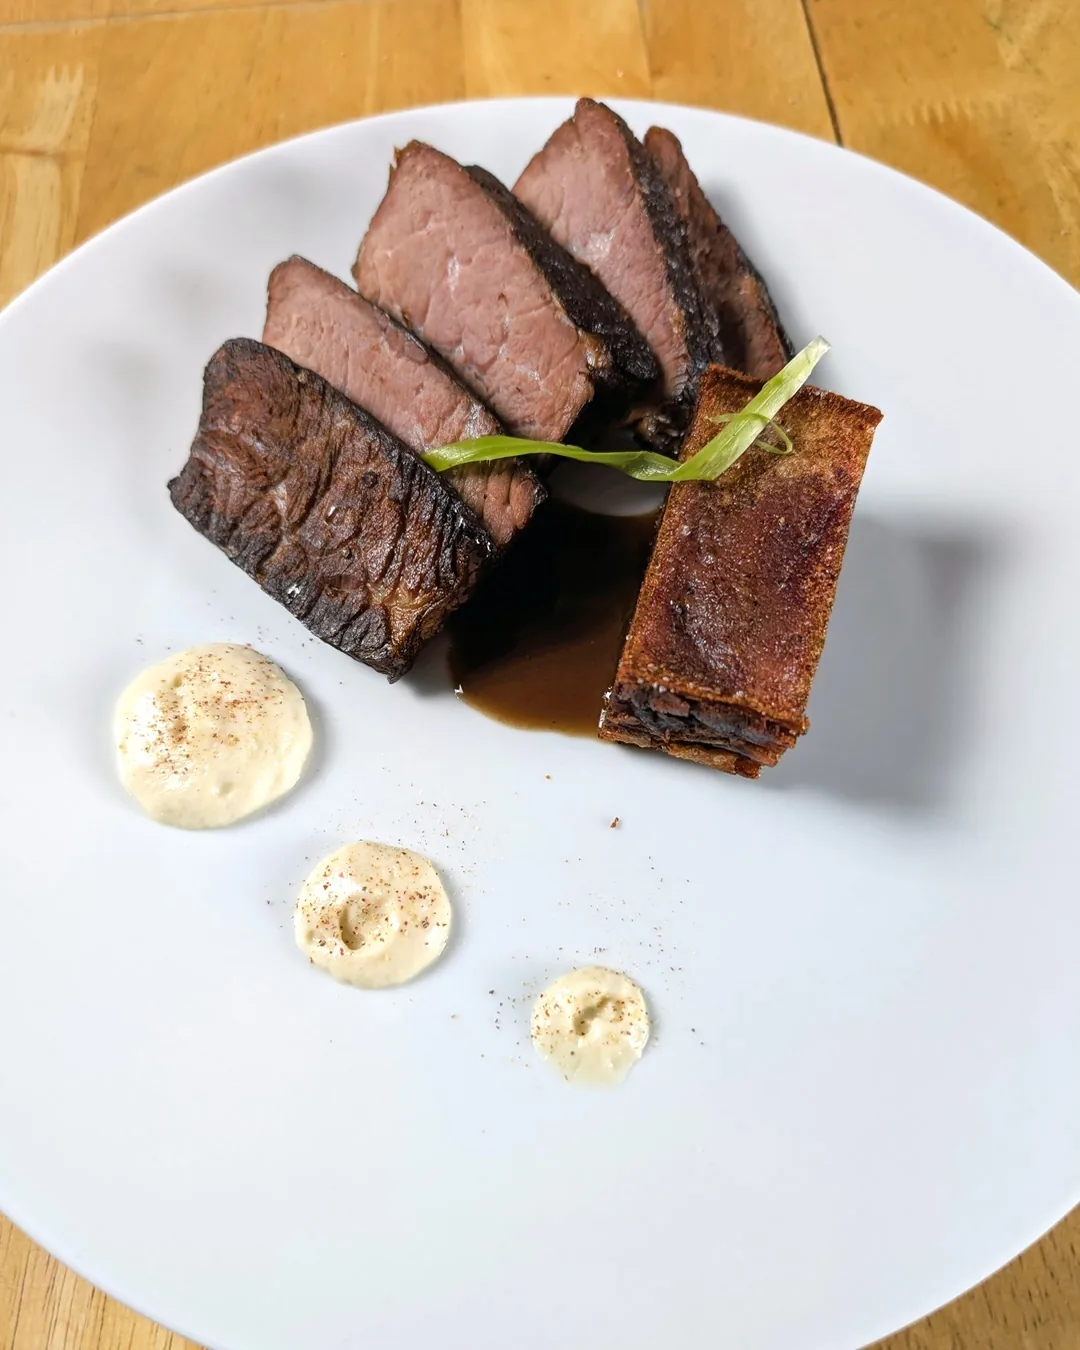
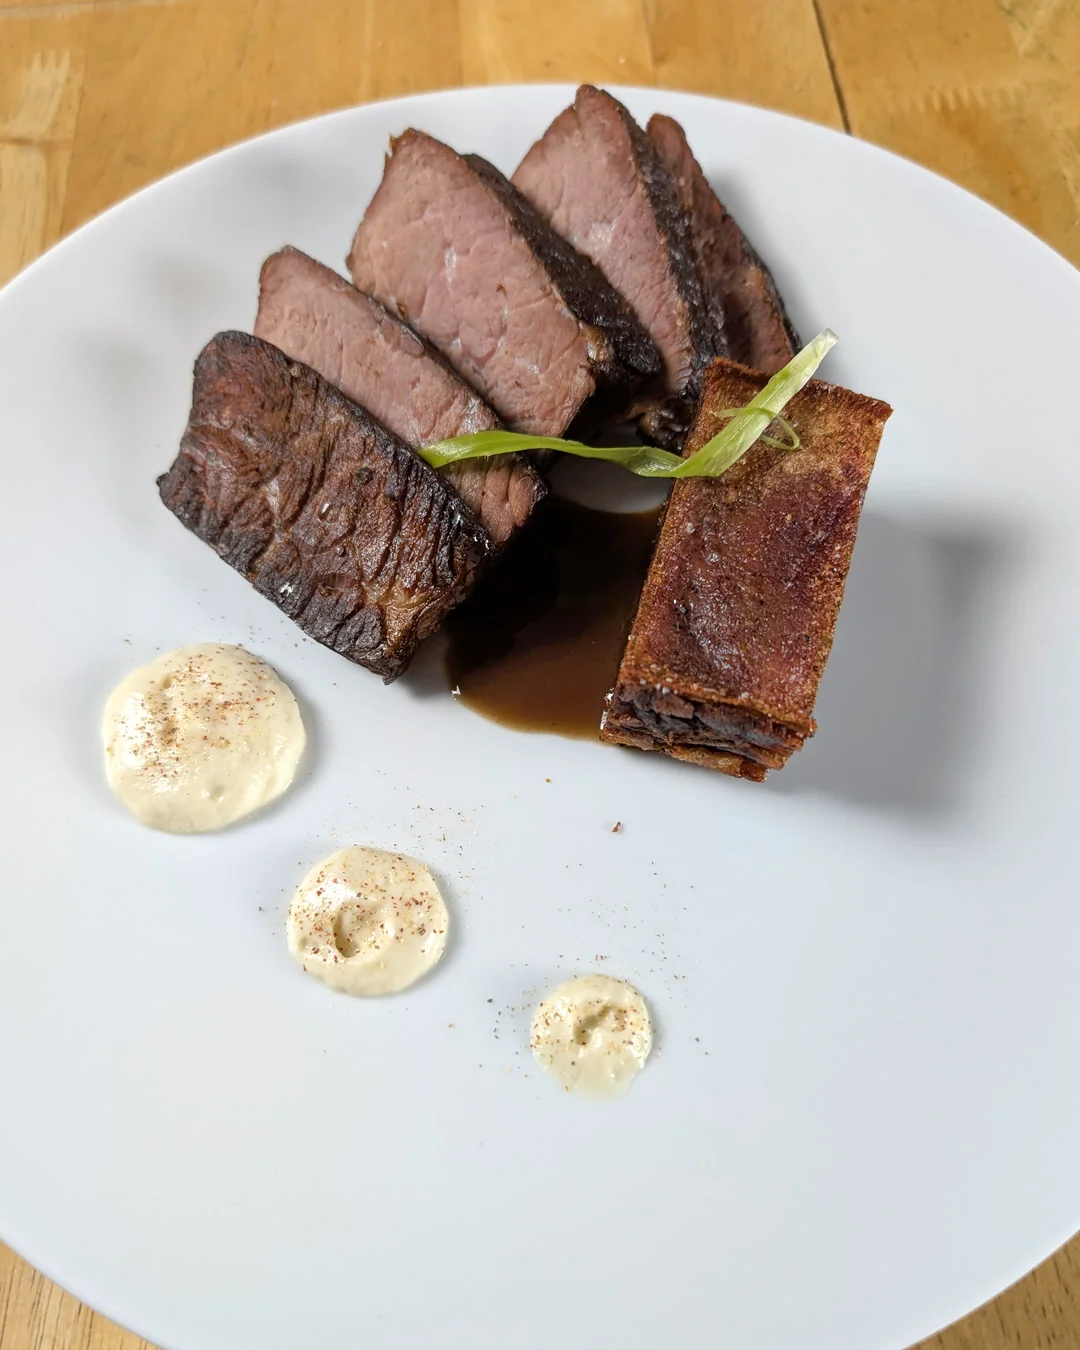
Plates: Aged to Perfection photos graded in Resolve
Claude-Session: https://claude.ai/code/session_01YXChonDyQSBmA34MB8nBhZ

diff --git a/site/plates/index.html b/site/plates/index.html
@@ -53,19 +53,19 @@ body.lb-lock{overflow:hidden}
             <figcaption>Aged to Perfection · Whipped ricotta crostini trio</figcaption>
           </figure>
           <figure class="plate">
-            <div class="plate-frame"><img src="/plates/img/atp-bisque.webp?v=2" alt="Butternut squash and porcini bisque with brown-butter-basted scallops and sage in a white bowl" width="1080" height="1350" loading="lazy" decoding="async"></div>
+            <div class="plate-frame"><img src="/plates/img/atp-bisque.webp?v=3" alt="Butternut squash and porcini bisque with brown-butter-basted scallops and sage in a white bowl" width="1080" height="1350" loading="lazy" decoding="async"></div>
             <figcaption>Aged to Perfection · Butternut squash and porcini bisque</figcaption>
           </figure>
           <figure class="plate">
-            <div class="plate-frame"><img src="/plates/img/atp-salad.webp?v=2" alt="Autumn kale salad with apple, walnut and pomegranate on a white plate" width="1080" height="1350" loading="lazy" decoding="async"></div>
+            <div class="plate-frame"><img src="/plates/img/atp-salad.webp?v=3" alt="Autumn kale salad with apple, walnut and pomegranate on a white plate" width="1080" height="1350" loading="lazy" decoding="async"></div>
             <figcaption>Aged to Perfection · Autumn kale salad</figcaption>
           </figure>
           <figure class="plate">
-            <div class="plate-frame"><img src="/plates/img/atp-roast.webp?v=2" alt="Sliced 18-hour sous vide chuck roast with a wagyu and duck fat ube-russet pavé, jus and three dots of celeriac-apple espuma on a white plate" width="1080" height="1350" loading="lazy" decoding="async"></div>
+            <div class="plate-frame"><img src="/plates/img/atp-roast.webp?v=3" alt="Sliced 18-hour sous vide chuck roast with a wagyu and duck fat ube-russet pavé, jus and three dots of celeriac-apple espuma on a white plate" width="1080" height="1350" loading="lazy" decoding="async"></div>
             <figcaption>Aged to Perfection · 18-hour sous vide chuck roast</figcaption>
           </figure>
           <figure class="plate">
-            <div class="plate-frame"><img src="/plates/img/atp-dessert.webp?v=2" alt="Bitter chocolate crémeux on almond-orange soil with an orange tuile, pomegranate glaze and black lava salt on a white plate" width="1080" height="1350" loading="lazy" decoding="async"></div>
+            <div class="plate-frame"><img src="/plates/img/atp-dessert.webp?v=3" alt="Bitter chocolate crémeux on almond-orange soil with an orange tuile, pomegranate glaze and black lava salt on a white plate" width="1080" height="1350" loading="lazy" decoding="async"></div>
             <figcaption>Aged to Perfection · Deconstructed dark chocolate tart</figcaption>
           </figure>
           <figure class="plate">
